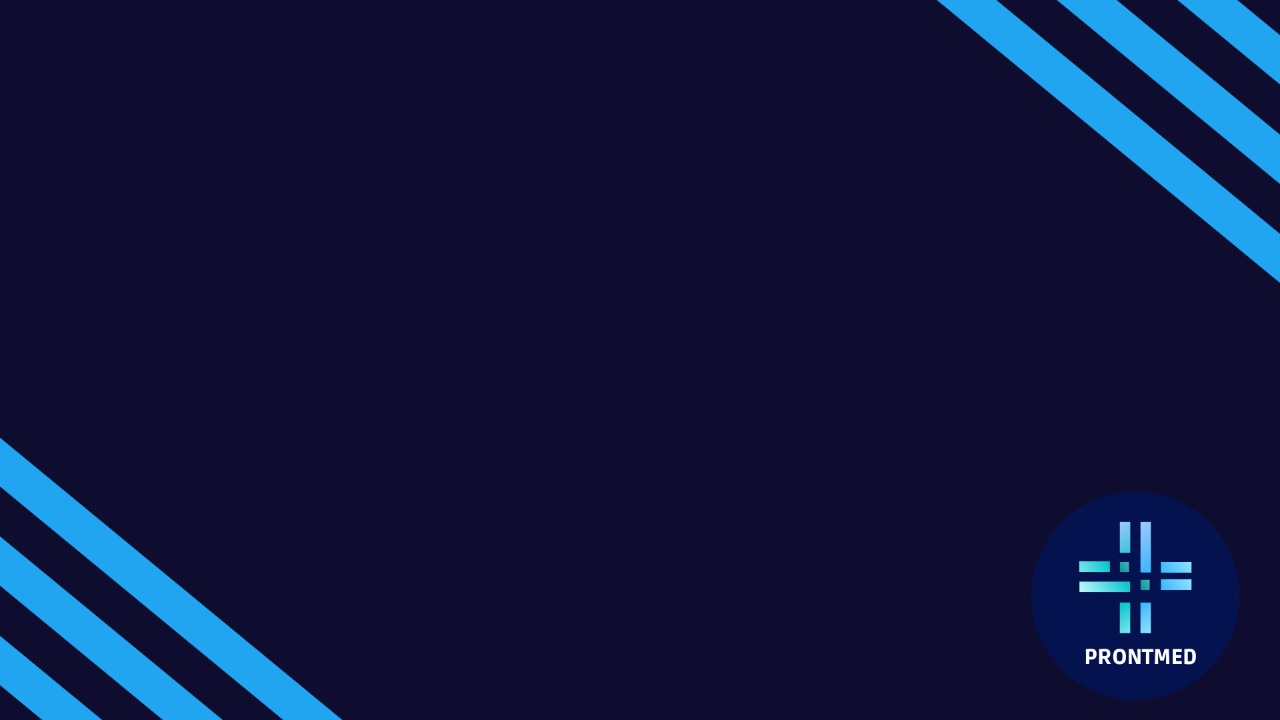
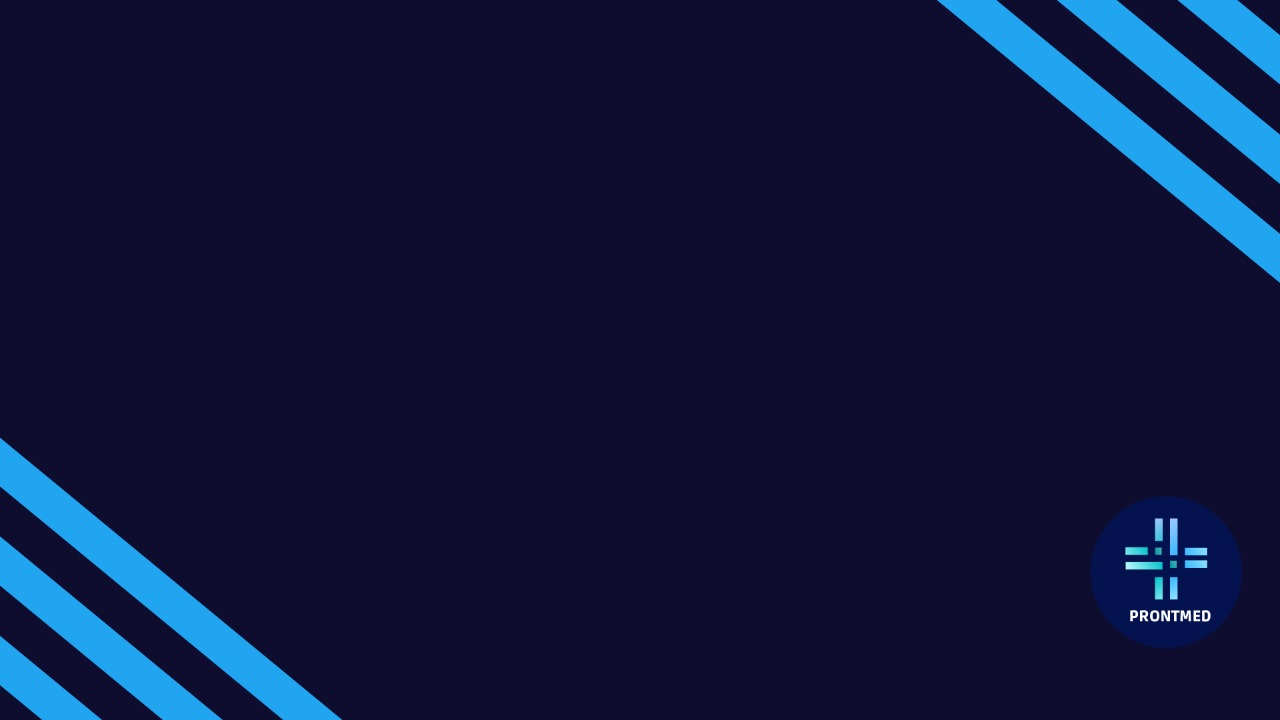
mais um commit

Changed region(s): [[0.7812, 0.6722, 0.9688, 0.9778]]

diff --git a/tipoCadastro.html b/tipoCadastro.html
@@ -7,7 +7,7 @@
 	<meta name="viewport" content="width=device-width,initial-scale=1">
 	<title>tela de cadastro &mdash; G Sáude</title>
 	<link rel="stylesheet" href="https://stackpath.bootstrapcdn.com/bootstrap/4.3.1/css/bootstrap.min.css" integrity="sha384-ggOyR0iXCbMQv3Xipma34MD+dH/1fQ784/j6cY/iJTQUOhcWr7x9JvoRxT2MZw1T" crossorigin="anonymous">
-	<link rel="stylesheet" type="text/css" href="/css/main.css">
+	<link rel="stylesheet" type="text/css" href="/css/teladelogin.css">
 	
     
 </head>
@@ -18,7 +18,7 @@
 			<div class="row justify-content-md-center h-100">
 				<div class="card-wrapper">
 					<div class="brand">
-						<img src="/assets/gsaude.png" alt="tela de cadastro">
+						<img src="/assets/prontmedLogo.png" class="img1" alt="tela de cadastro">
 					</div>
 					<div class="card fat">
 						<div class="card-body">
@@ -28,7 +28,7 @@
 
 							
                                 <div class="form-group m-0">
-									<a class="btn btn-primary btn-lg" href="cadastro.html" role="button">Médico</a>
+									<a class="btn btn-primary btn-lg" href="registro.html" role="button">Médico</a>
 								</div>
 
 
@@ -39,7 +39,7 @@
 
 
 								<div class="form-group m-0">
-									<a class="btn btn-primary btn-lg" href="#" role="button">Colaborador</a>
+									<a class="btn btn-primary btn-lg" href="registro.html" role="button">Paciente</a>
 								</div>
 
                                 <div class="form-group m-0">

diff --git a/registro.html b/registro.html
@@ -7,7 +7,7 @@
 	<meta name="viewport" content="width=device-width,initial-scale=1">
 	<title>tela de cadastro &mdash; G Sáude</title>
 	<link rel="stylesheet" href="https://stackpath.bootstrapcdn.com/bootstrap/4.3.1/css/bootstrap.min.css" integrity="sha384-ggOyR0iXCbMQv3Xipma34MD+dH/1fQ784/j6cY/iJTQUOhcWr7x9JvoRxT2MZw1T" crossorigin="anonymous">
-	<link rel="stylesheet" type="text/css" href="/css/main.css">
+	<link rel="stylesheet" type="text/css" href="/css/teladelogin.css">
 </head>
 
 <body class="teladelogin1">
@@ -16,7 +16,7 @@
 			<div class="row justify-content-md-center h-100">
 				<div class="card-wrapper">
 					<div class="brand">
-						<img src="/assets/gsaude.png" alt="tela de cadastro">
+						<img src="/assets/prontmedLogo.png" class="img1" alt="tela de cadastro">
 					</div>
 					<div class="card fat">
 						<div class="card-body">
@@ -89,6 +89,14 @@
 									</label>
 								  </div>
 								
+
+
+								  <div class="form-check">
+									<input class="form-check-input" type="radio" name="flexRadioDefault" id="flexRadioDefault2" checked>
+									<label class="form-check-label" for="flexRadioDefault2">
+									  Outros
+									</label>
+								  </div>
 
 
 

diff --git a/index.html b/index.html
@@ -7,7 +7,7 @@
 	<meta name="viewport" content="width=device-width,initial-scale=1">
 	<title>tela de login</title>
 	<link rel="stylesheet" href="/css/main.css" crossorigin="anonymous">
-	<link rel="stylesheet" type="text/css" href="/css/main.css">
+	<link rel="stylesheet" type="text/css" href="/css/teladelogin.css">
 </head>
 
 
@@ -17,7 +17,7 @@
 			 <div class="row justify-content-md-center h-100">
 			 	 <div class="card-wrapper">
 					 <div class="brand">
-						 <img src="/assets/gsaude.png" alt="logo">
+						<img src="/assets/prontmedLogo.png" class="img1" alt="tela de cadastro">
 					 </div>
 					 <div class="card fat">
 						 <div class="card-body">
@@ -64,7 +64,7 @@
 									</button>
 								</div>
 								<div class="mt-4 text-center">
-									Não possui uma conta? <a href="/registro.html">Criar uma conta</a>
+									Não possui uma conta? <a href="/tipoCadastro.html">Criar uma conta</a>
 								</div>
 							</form>
 						</div>

diff --git a/esqueceusenha.html b/esqueceusenha.html
@@ -7,7 +7,7 @@
 	<meta name="viewport" content="width=device-width,initial-scale=1">
 	<title>Esqueceu Senha &mdash; G Saúde</title>
 	<link rel="stylesheet" href="https://stackpath.bootstrapcdn.com/bootstrap/4.3.1/css/bootstrap.min.css" integrity="sha384-ggOyR0iXCbMQv3Xipma34MD+dH/1fQ784/j6cY/iJTQUOhcWr7x9JvoRxT2MZw1T" crossorigin="anonymous">
-	<link rel="stylesheet" type="text/css" href="/css/main.css">
+	<link rel="stylesheet" type="text/css" href="/css/teladelogin.css">
 </head>
 
 <body class="teladelogin1">
@@ -16,7 +16,7 @@
 			<div class="row justify-content-md-center align-items-center h-100">
 				<div class="card-wrapper">
 					<div class="brand">
-						<img src="/assets/gsaude.png" alt="G Saúde">
+						<img src="/assets/prontmedLogo.png" class="img1" alt="tela de cadastro">
 					</div>
 					<div class="card fat">
 						<div class="card-body">

diff --git a/cadastro.html b/cadastro.html
@@ -7,7 +7,7 @@
 	<meta name="viewport" content="width=device-width,initial-scale=1">
 	<title>tela de cadastro &mdash; G Sáude</title>
 	<link rel="stylesheet" href="https://stackpath.bootstrapcdn.com/bootstrap/4.3.1/css/bootstrap.min.css" integrity="sha384-ggOyR0iXCbMQv3Xipma34MD+dH/1fQ784/j6cY/iJTQUOhcWr7x9JvoRxT2MZw1T" crossorigin="anonymous">
-	<link rel="stylesheet" type="text/css" href="/css/main.css">
+	<link rel="stylesheet" type="text/css" href="/css/teladelogin.css">
 </head>
 
 <body class="teladelogin1">
@@ -16,7 +16,7 @@
 			<div class="row justify-content-md-center h-100">
 				<div class="card-wrapper">
 					<div class="brand">
-						<img src="/assets/gsaude.png" alt="tela de cadastro">
+						<img src="/assets/prontmedLogo.png" class="img1" alt="tela de cadastro">
 					</div>
 					<div class="card fat">
 						<div class="card-body">

diff --git a/css/teladelogin.css b/css/teladelogin.css
@@ -85,3 +85,12 @@ body.teladelogin1 {
 		padding: 15px;
 	}
 }
+
+.img1{
+
+	padding: 60px;
+}
+
+.footer{
+	color: white;
+}
